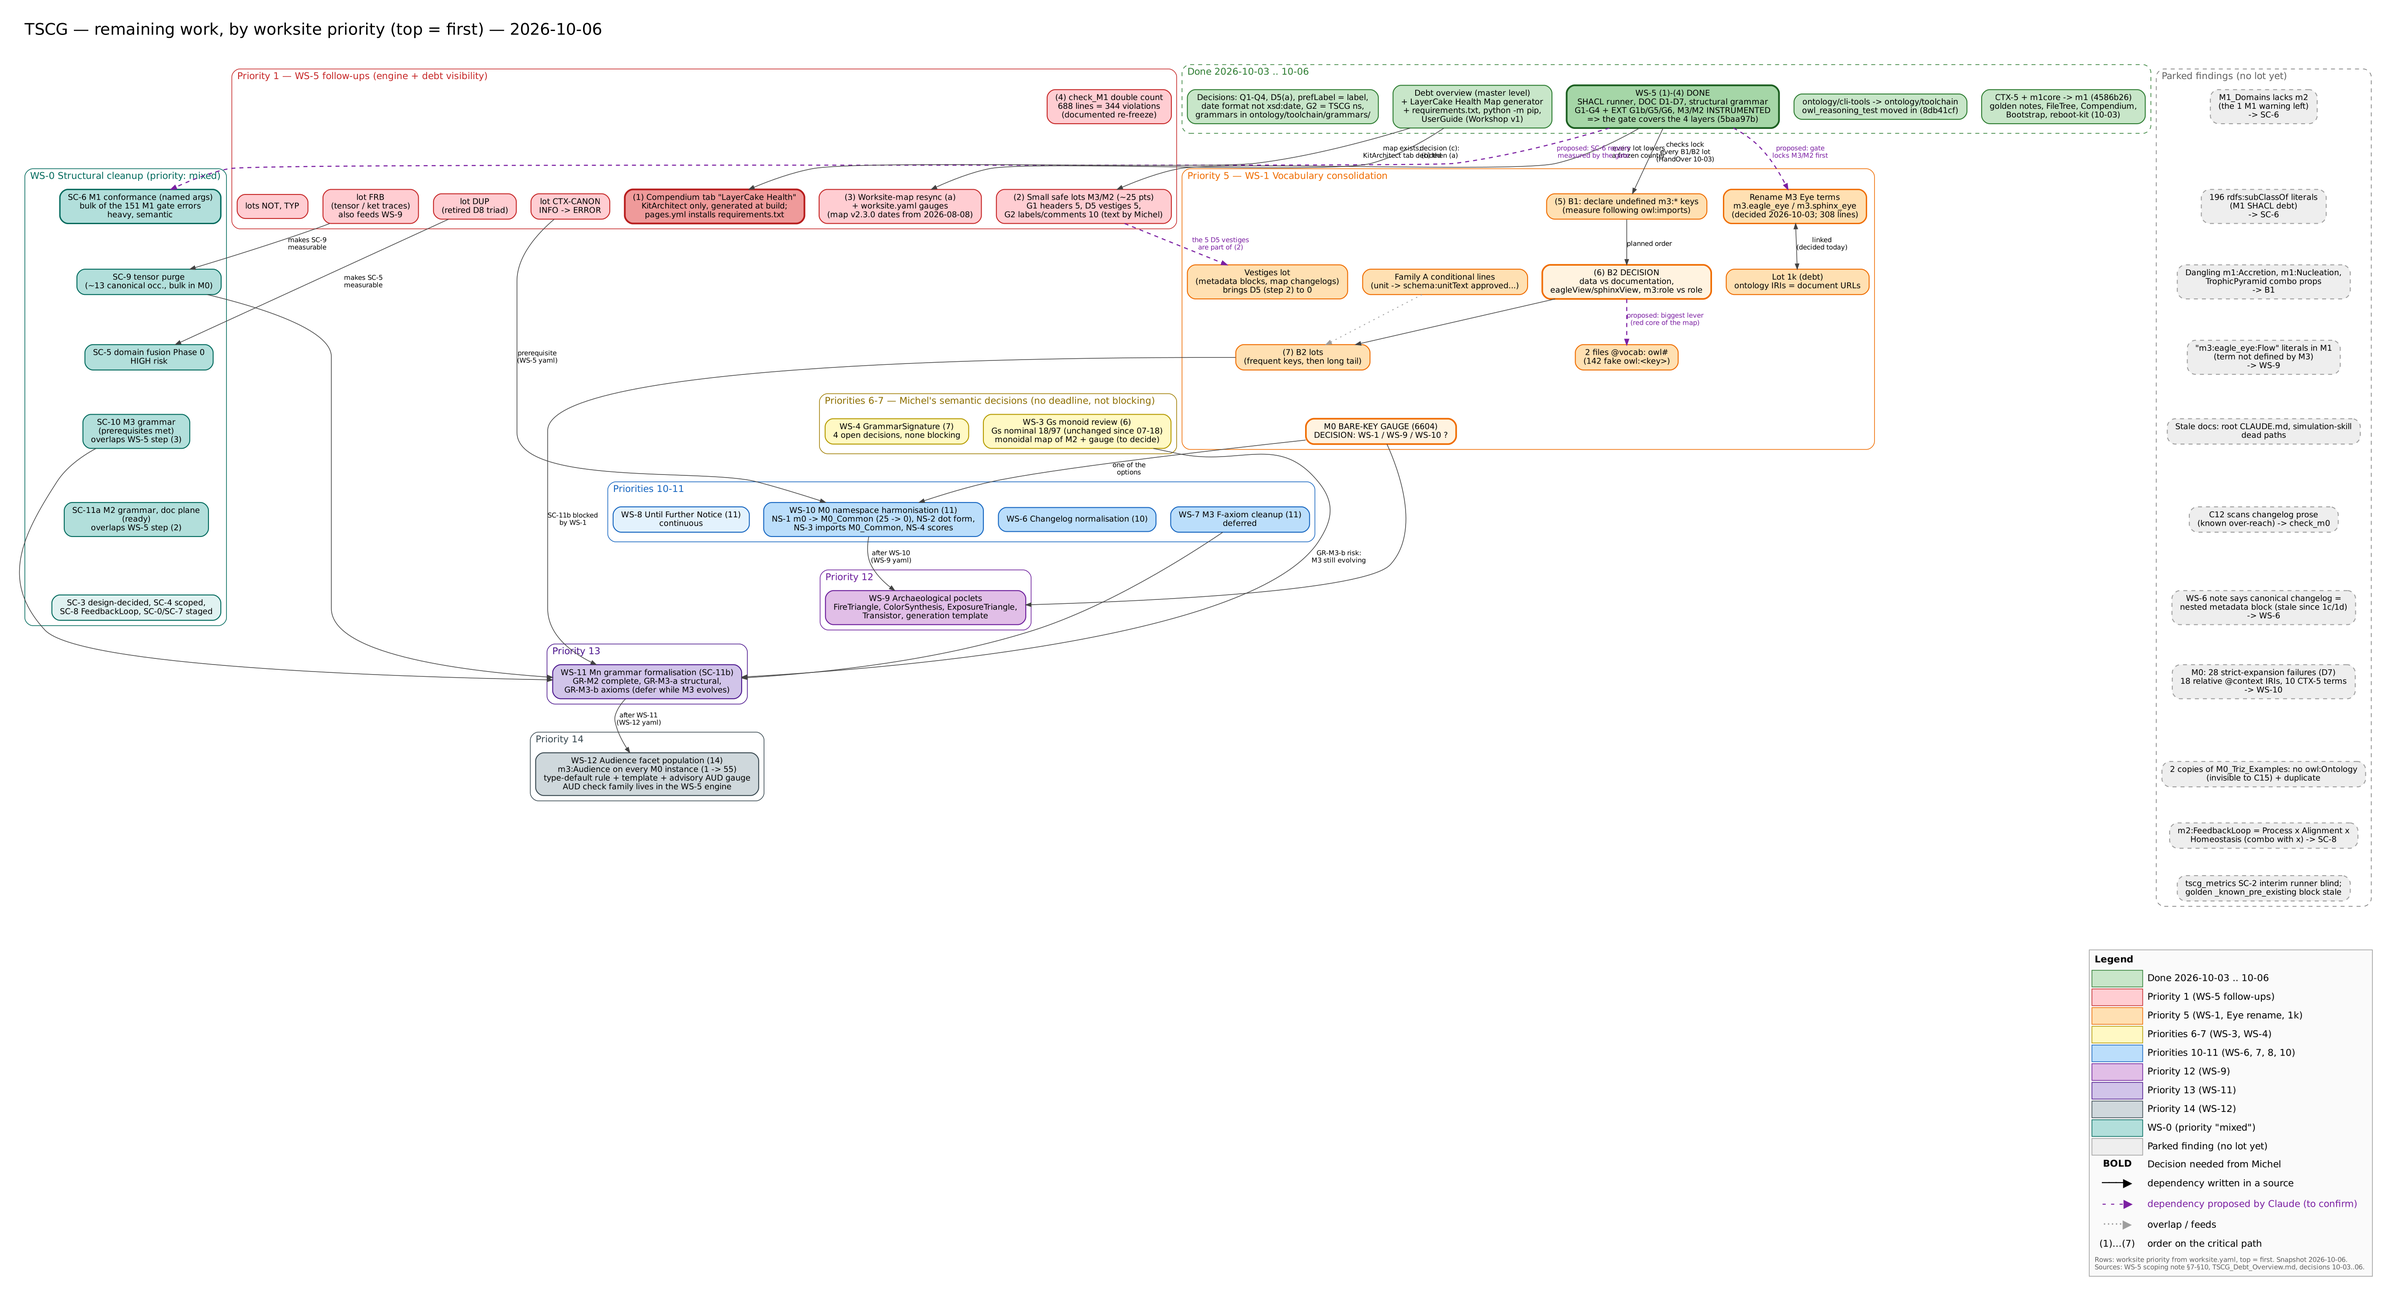
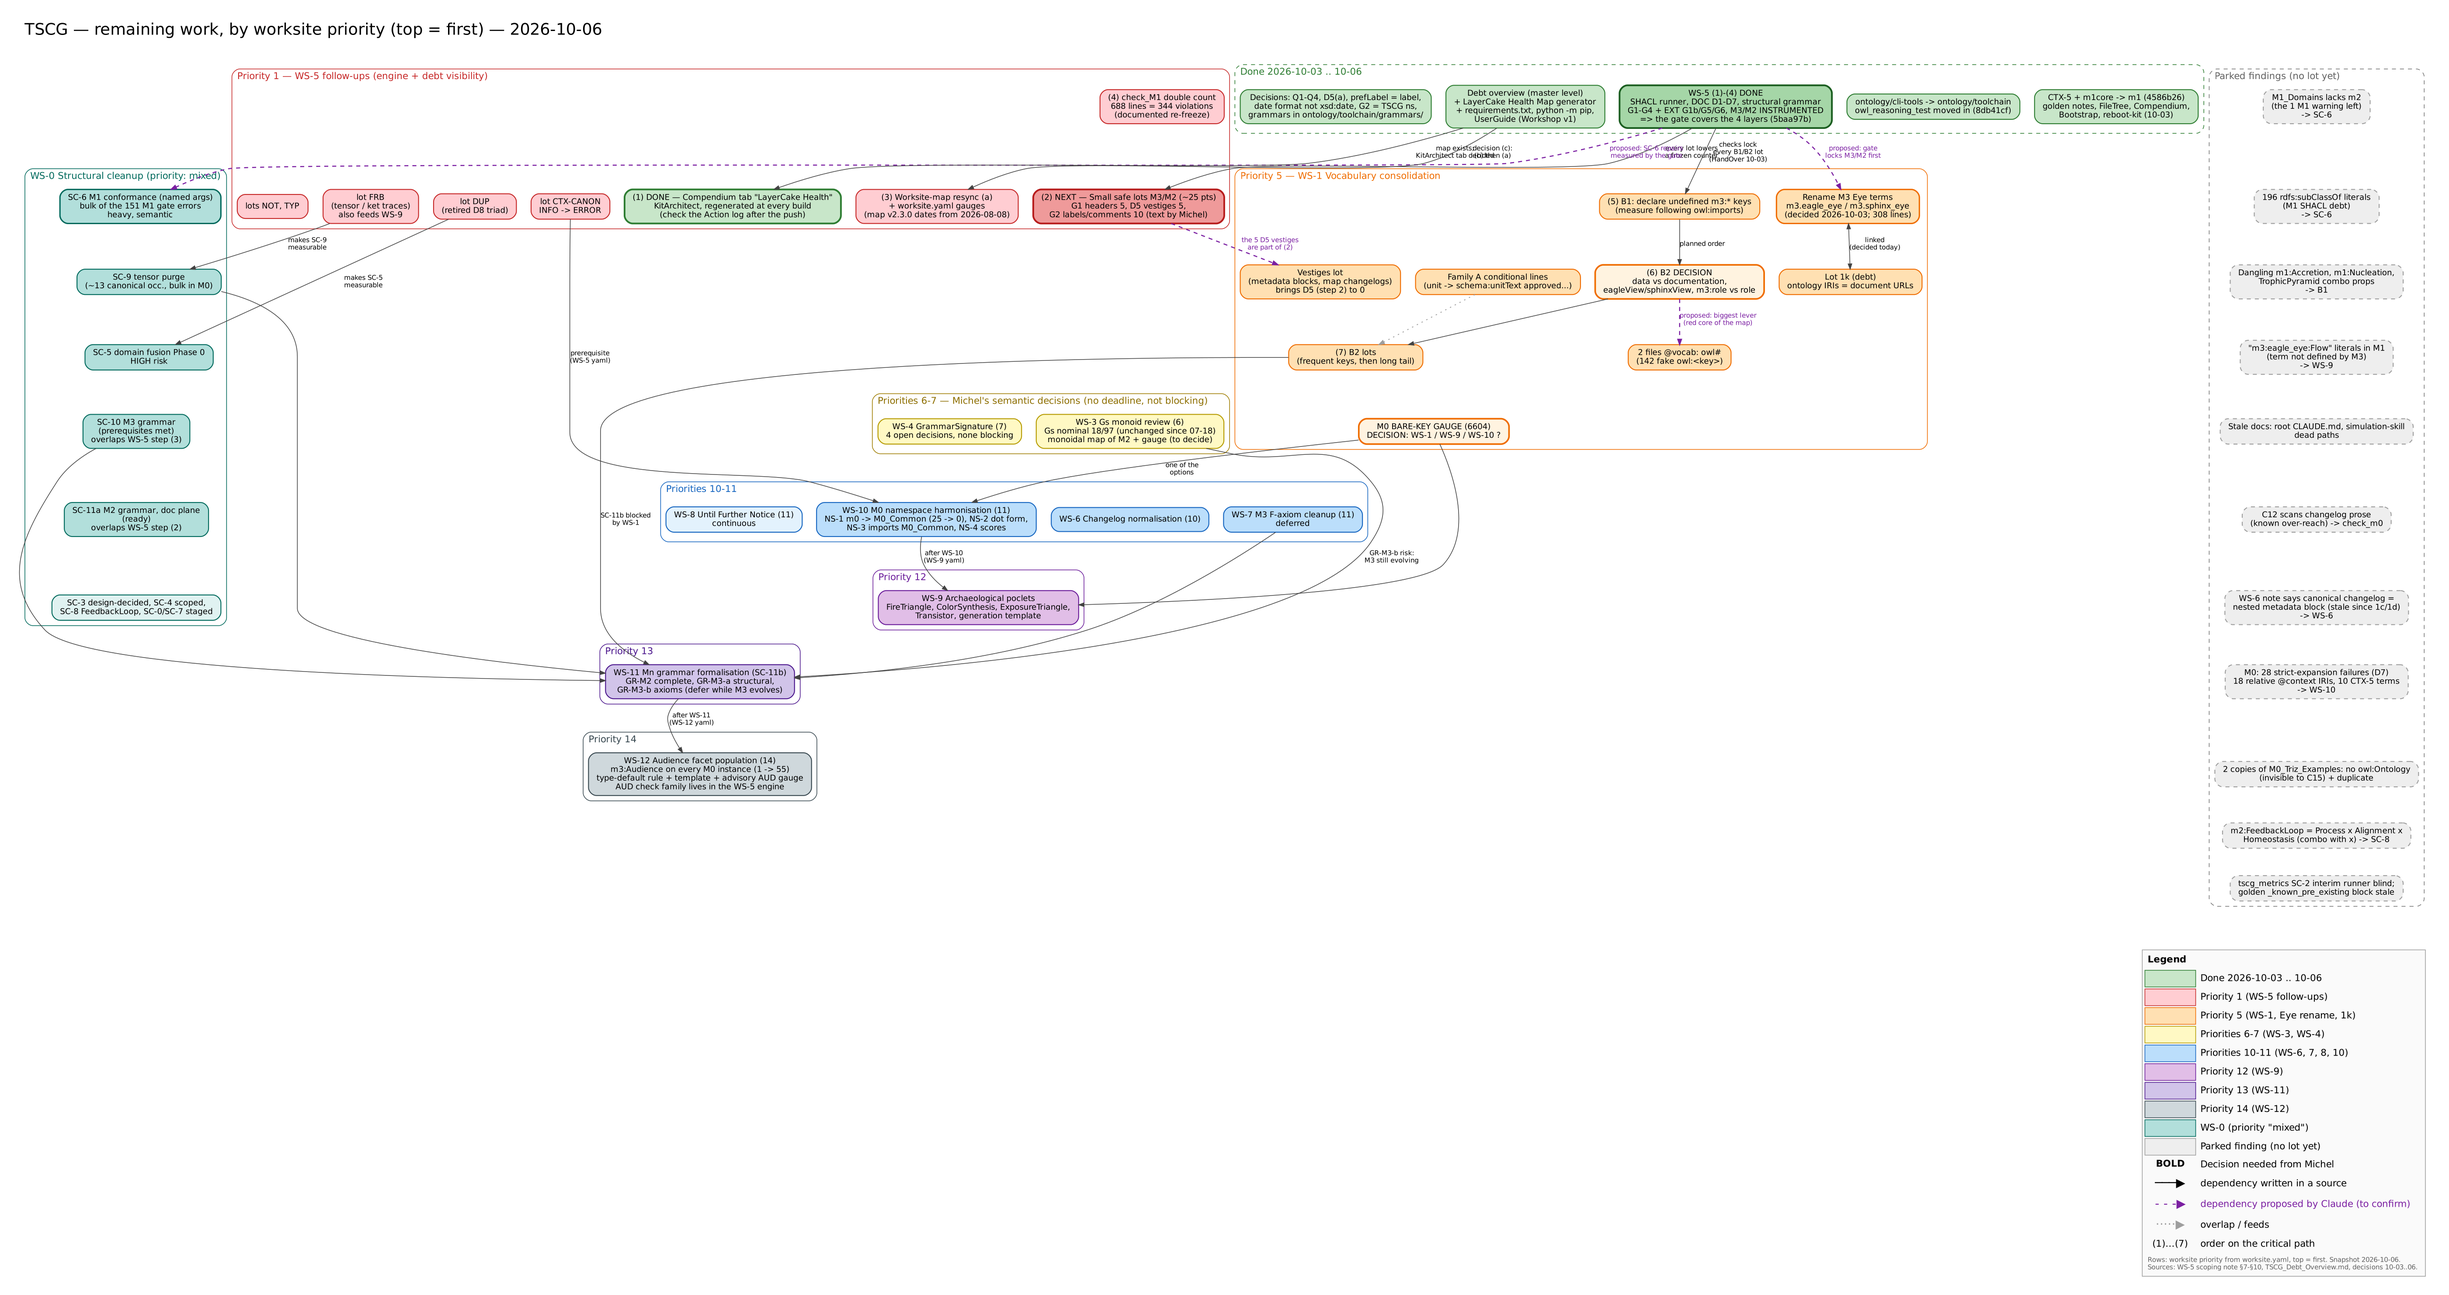
Compendium: tab "LayerCake Health" (KitArchitect), map regenerated at every build
Michel, 2026-10-06: "régénérer et afficher dans le Compendium".

- build_compendium.py: run_health_map() runs
  ontology/toolchain/tscg_layercake_health_map.py --no-png into a temp dir
  (never the source tree) and publishes dist/layercake_health_map.svg; the
  result goes into DATA.health. A failed generation does not break the
  build and is reported ("health map: unavailable (<reason>)").
- compendium_template.html: rubric "LayerCake Health", KitArchitect lens
  only; the SVG is embedded with <object> (hover tooltips work), with an
  intro, a colour legend and links to TSCG_Debt_Overview.md, the dated
  snapshots and the generator. Unavailable map -> the tab says so with the
  reason, never an empty tab.
- .github/workflows/pages.yml: installs ontology/toolchain/requirements.txt.
- Compendium_Generator_DesignNote.md section 8; HandOver 2026-10-06 and its
  graph: step (1) marked done, (2) small lots next.

Verified locally: build OK in ~25 s ("health map: ok"); KitUser and
KitCrafter do not see the tab, KitArchitect does; the embedded SVG exposes
its 729 tooltips; failure path tested (wrong script path -> tab shows the
reason, build succeeds).

Claude-Session: https://claude.ai/code/session_013nXWXhGAKUyEtFMJ3uvWhA

diff --git a/cli_tools/compendium/compendium_template.html b/cli_tools/compendium/compendium_template.html
@@ -97,6 +97,12 @@ h1{font-family:var(--disp);font-weight:700;font-size:clamp(30px,7vw,46px);letter
 .stub li{margin:4px 0}
 .switch{font:inherit;font-size:13px;font-weight:600;font-family:var(--disp);cursor:pointer;border:1px solid var(--accent);color:var(--accent);background:transparent;border-radius:8px;padding:7px 12px}
 .empty{color:var(--muted);padding:40px 0;text-align:center}
+.health-intro{color:var(--muted);font-size:14px;max-width:80ch;margin:0 0 14px}
+.health-frame{background:#fbfaf7;border:1px solid var(--line);border-radius:12px;padding:8px;overflow:hidden}
+.health-frame object{display:block;width:100%;height:auto}
+.health-legend{display:flex;flex-wrap:wrap;gap:14px;margin:12px 0 4px;font-size:13px;color:var(--muted)}
+.health-legend span::before{content:"";display:inline-block;width:11px;height:11px;margin-right:6px;vertical-align:-1px;clip-path:polygon(25% 0,75% 0,100% 50%,75% 100%,25% 100%,0 50%)}
+.hl-g::before{background:#3f9e5a}.hl-o::before{background:#ff8a00}.hl-m::before{background:#c4268f}.hl-r::before{background:#d8322a}.hl-x::before{background:#b9b9b9}
 footer{margin-top:40px;color:var(--muted);font-size:12.5px;border-top:1px solid var(--line);padding-top:16px}
 @media (max-width:560px){.lens-top{flex-direction:column;align-items:flex-start;gap:6px}.lens-count{text-align:left}.row{flex-direction:column;gap:6px}}
 @media (prefers-reduced-motion:reduce){*{transition:none!important}}
@@ -139,6 +145,7 @@ const TREE="https://github.com/Echopraxium/tscg/tree/main/";
 const UNDERSTAND="Understand the kit";
 const DOC_ORDER=["Epistemology","Guides & templates","Gate tools & tooling","The M3–M0 layers","Project management"];
 const EYE=["KitUser","KitCrafter","KitArchitect"];
+const HEALTH="LayerCake Health";   // KitArchitect only (Michel, 2026-10-06)
 let audience="KitUser", section=UNDERSTAND, query="";
 try{const s=localStorage.getItem("tscg-aud"); if(s&&EYE.includes(s)) audience=s;}catch(e){}
 try{const t=localStorage.getItem("tscg-theme"); if(t) document.documentElement.dataset.theme=t;}catch(e){}
@@ -158,10 +165,11 @@ function sectionsForAudience(){
   const out=[UNDERSTAND];
   if(DATA.subjects.some(inAud)) out.push("Instances & simulations");
   DOC_ORDER.forEach(s=>{ if(DATA.docs.some(d=>inAud(d)&&d.section===s)) out.push(s); });
+  if(audience==="KitArchitect") out.push(HEALTH);
   return out;
 }
 function sectionCount(s){
-  if(s===UNDERSTAND) return "";
+  if(s===UNDERSTAND||s===HEALTH) return "";
   if(s==="Instances & simulations") return DATA.subjects.filter(inAud).length;
   return DATA.docs.filter(d=>inAud(d)&&d.section===s).length;
 }
@@ -271,6 +279,29 @@ function renderProject(){
   return html||`<p class="empty">Nothing here at this level.</p>`;
 }
 
+function renderHealth(){
+  const H=DATA.health||{status:"unavailable",reason:"no health data in this build"};
+  const doc=BLOB+"ontology/docs/_01_Worksite/TSCG_Debt_Overview.md";
+  const snaps=TREE+"ontology/docs/_01_Worksite/LayerCakeHealthMap";
+  const gen=BLOB+"ontology/toolchain/tscg_layercake_health_map.py";
+  if(H.status!=="ok"){
+    return `<div class="intro"><p><b>LayerCake Health Map unavailable in this build.</b></p>
+      <p class="health-intro">${esc(H.reason||"unknown reason")}</p>
+      <p class="health-intro">An absent map is not a healthy one. Dated snapshots: <a href="${snaps}">LayerCakeHealthMap/</a>.</p></div>`;
+  }
+  return `<section class="group"><h2><span>LayerCake Health Map</span><span>regenerated at this build</span></h2>
+    <p class="health-intro">The Layer Cake seen from above: M3 at the centre (abstract), M0 on the periphery (concrete).
+    One hexagon per node, one meta-hexagon per cluster of nodes. Links only where the data carries a relation.
+    <b>Hover a cell or a link</b> for its findings. Measured by the acceptance gate's own instruments — no number is typed by hand.</p>
+    <div class="health-legend"><span class="hl-g">no finding</span><span class="hl-o">bare keys only (WS-1 vocabulary)</span>
+      <span class="hl-m">other technical debt (measured, frozen)</span><span class="hl-r">invisible / misread by the tools</span><span class="hl-x">not measured</span></div>
+    <div class="health-frame"><object type="image/svg+xml" data="${esc(H.svg)}" style="aspect-ratio:${H.width}/${H.height}"
+      aria-label="LayerCake Health Map">LayerCake Health Map (SVG)</object></div>
+    <p class="health-intro">How to read it, debt by owner and the reduction path: <a href="${doc}">TSCG_Debt_Overview.md</a> ·
+      dated snapshots (progress record): <a href="${snaps}">LayerCakeHealthMap/</a> · generator: <a href="${gen}">tscg_layercake_health_map.py</a> ·
+      open the map alone: <a href="${esc(H.svg)}" target="_blank" rel="noopener">${esc(H.svg)}</a></p></section>`;
+}
+
 function render(){
   const c=counts();
   document.getElementById("nvis").textContent=c.total;
@@ -280,6 +311,7 @@ function render(){
   if(section===UNDERSTAND) v.innerHTML=renderUnderstand();
   else if(section==="Instances & simulations") v.innerHTML=renderInstances();
   else if(section==="Project management") v.innerHTML=renderProject();
+  else if(section===HEALTH) v.innerHTML=renderHealth();
   else v.innerHTML=renderDocs(section);
   v.querySelectorAll(".switch[data-aud]").forEach(b=>b.onclick=()=>setAudience(b.dataset.aud));
   v.querySelectorAll(".switch[data-sec]").forEach(b=>b.onclick=()=>{section=b.dataset.sec;render();});

diff --git a/cli_tools/compendium/build_compendium.py b/cli_tools/compendium/build_compendium.py
@@ -163,6 +163,40 @@ def run_gallery(root, outdir, script, site_url):
     except Exception as e:
         print(f"  [gallery] failed: {e}")
 
+HEALTH_SCRIPT = "ontology/toolchain/tscg_layercake_health_map.py"
+HEALTH_FILE = "layercake_health_map.svg"
+
+def run_health_map(root, outdir):
+    """LayerCake Health Map (added 2026-10-06), regenerated at EVERY build from the
+    checked-out HEAD and published as dist/layercake_health_map.svg — the Compendium
+    stores no fact of its own. Written to a temp dir, never into the source tree.
+    A failure never breaks the site and never yields an empty tab: the tab shows
+    'map unavailable' with the reason (same rule as the gate: what did not run is
+    never shown as fine)."""
+    import subprocess, sys, tempfile
+    script = os.path.abspath(os.path.join(root, HEALTH_SCRIPT))
+    if not os.path.exists(script):
+        return {"status": "unavailable", "reason": f"generator not found: {HEALTH_SCRIPT}"}
+    with tempfile.TemporaryDirectory() as tmp:
+        try:
+            proc = subprocess.run([sys.executable, script, "--out", tmp, "--no-png"],
+                                  cwd=os.path.dirname(script), capture_output=True,
+                                  text=True, encoding="utf-8", errors="replace", timeout=900)
+        except Exception as e:
+            return {"status": "unavailable", "reason": f"generator did not run: {e}"}
+        svgs = sorted(glob.glob(os.path.join(tmp, "*.svg")))
+        if proc.returncode != 0 or not svgs:
+            tail = (proc.stdout + proc.stderr).strip().splitlines()[-6:]
+            return {"status": "unavailable",
+                    "reason": f"generator exit {proc.returncode}: " + " | ".join(tail)}
+        svg = svgs[-1]
+        head = read(svg)[:400]
+        m = re.search(r'width="(\d+)" height="(\d+)"', head)
+        shutil.copyfile(svg, os.path.join(outdir, HEALTH_FILE))
+        print(f"  health map: {os.path.join(outdir, HEALTH_FILE)}")
+        return {"status": "ok", "svg": HEALTH_FILE, "snapshot": os.path.basename(svg),
+                "width": int(m.group(1)) if m else 1600, "height": int(m.group(2)) if m else 1700}
+
 def build_stamp(root):
     """Commit + UTC date of this build, shown in the footer so a stale page is visible
     at a glance (added 2026-10-03). CI: GITHUB_SHA; local: git rev-parse HEAD."""
@@ -185,7 +219,8 @@ def main():
     os.makedirs(a.out,exist_ok=True)
     subjects=build_subjects(a.root,a.out)
     docs=build_docs(a.root,a.out)
-    data=json.dumps({"subjects":subjects,"docs":docs,"build":build_stamp(a.root)},ensure_ascii=False)
+    health=run_health_map(a.root,a.out)
+    data=json.dumps({"subjects":subjects,"docs":docs,"build":build_stamp(a.root),"health":health},ensure_ascii=False)
     html=read(a.template)
     if '"@@DATA@@"' not in html:
         raise SystemExit("template missing the \"@@DATA@@\" placeholder")
@@ -197,5 +232,6 @@ def main():
     print(f"built {a.out}/index.html")
     print(f"  subjects: {len(subjects)}  (playable copied & linked: {played})")
     print(f"  docs: {len(docs)}")
+    print(f"  health map: {health.get('status')}" + (f" ({health.get('reason')})" if health.get("reason") else ""))
 
 if __name__=="__main__": main()

diff --git a/ontology/docs/_01_Worksite/WS-5/Next_Conversation_2026-10-06/TSCG_HandOver_WS-5_2026-10-06.md b/ontology/docs/_01_Worksite/WS-5/Next_Conversation_2026-10-06/TSCG_HandOver_WS-5_2026-10-06.md
@@ -1,10 +1,11 @@
-# TSCG HandOver — WS-5 critical path done (gate covers M3→M0); next: LayerCake Health tab
+# TSCG HandOver — WS-5 critical path done (gate covers M3→M0); LayerCake Health in the Compendium; next: small debt lots
 
 **Author**: Echopraxium with the collaboration of Claude AI
 **Date**: 2026-10-06
 **Purpose**: resume cold in a fresh conversation. The WS-5 critical path is closed: the
-gate measures the four layers. Next: the Compendium tab "LayerCake Health", then the
-small debt-reduction lots.
+gate measures the four layers, and the LayerCake Health Map is regenerated at every
+Compendium build (tab "LayerCake Health", KitArchitect). Next: the small
+debt-reduction lots.
 **Companion files (same folder)**: `TSCG_RemainingWork.png` (dependency graph, legend
 bottom-right), its Graphviz sources `TSCG_RemainingWork.dot` and `legend.dot`, and
 `render_graph.py` (Graphviz + Pillow). Edit the `.dot` files, then `python render_graph.py`.
@@ -70,7 +71,7 @@ bottom-right), its Graphviz sources `TSCG_RemainingWork.dot` and `legend.dot`, a
 | `7470326` | `requirements.txt`, gate start-up package check (1.4.1), UserGuide setup step + dead `validate_m0_instance.py` path fixed |
 | `a2a6ea8` | `python -m pip` everywhere; gate prints its interpreter (1.4.2) |
 | `ffa6206` | UserGuide: Claude project is **"TSCG Workshop v1"** (was "TSCG Cyclop v0") |
-| *(this lot)* | map renamed **LayerCake Health Map** (`tscg_layercake_health_map.py` 0.4.0, `_01_Worksite/LayerCakeHealthMap/`); snapshot regenerated on `ffa6206`; this HandOver |
+| *(this series)* | map renamed **LayerCake Health Map** (`tscg_layercake_health_map.py` 0.4.0, `_01_Worksite/LayerCakeHealthMap/`), snapshot regenerated on `ffa6206`; this HandOver; **Compendium tab "LayerCake Health"** (map regenerated at every build, `pages.yml` installs `requirements.txt`) |
 
 ### Decisions taken (Michel, 2026-10-03 → 10-06)
 
@@ -93,8 +94,9 @@ bottom-right), its Graphviz sources `TSCG_RemainingWork.dot` and `legend.dot`, a
   keys · **magenta** other technical debt · **red** invisible/misread · grey not
   measured. Generated, never hand-drawn; snapshots dated and named after a HEAD
   commit that is on `main`.
-- **Compendium tab "LayerCake Health"**, generated at build time. Visibility
-  proposed **KitArchitect only** — not explicitly confirmed (§3).
+- **Compendium tab "LayerCake Health"**, regenerated at every build (Michel:
+  "régénérer et afficher dans le Compendium"). Built **KitArchitect only** — the
+  visibility itself is not explicitly confirmed (§3).
 - Claude project name: **TSCG Workshop v1**.
 
 ### Working method that worked (reuse it)
@@ -114,11 +116,12 @@ bottom-right), its Graphviz sources `TSCG_RemainingWork.dot` and `legend.dot`, a
 
 The critical path is red in the graph:
 
-1. **(1) Compendium tab "LayerCake Health"** (KitArchitect only):
-   `build_compendium.py` calls `tscg_layercake_health_map.py --no-png` into `dist/`,
-   the template gets a rubric showing the SVG **inline** (tooltips work); if the
-   generation fails in CI, the tab says "map unavailable: <reason>" — never an empty
-   tab. `pages.yml` installs `requirements.txt` (no Playwright). One patch.
+1. **(1) DONE in this series — Compendium tab "LayerCake Health"**: `build_compendium.py`
+   runs `tscg_layercake_health_map.py --no-png` into a temp dir and publishes
+   `dist/layercake_health_map.svg`; the tab embeds it with an `<object>` (tooltips
+   work); a failed generation shows "map unavailable: <reason>", never an empty tab.
+   **Verify after the push**: the GitHub Action log ("health map: ok") and the tab on
+   https://echopraxium.github.io/tscg with the KitArchitect lens.
 2. **(2) Small safe lots on M3/M2** (~25 points): 5 headers (G1), 5 changelog vestiges
    (D5), 10 labels/comments (G2 — **text by Michel**). Each lowers a frozen counter,
    re-frozen with `--update-golden` and the reason in the commit.

diff --git a/cli_tools/compendium/Compendium_Generator_DesignNote.md b/cli_tools/compendium/Compendium_Generator_DesignNote.md
@@ -88,3 +88,16 @@ it is browsable today.
 2. Default audience on first load — KitUser (most inviting) confirmed?
 3. Do KitArchitect-only entries stay hidden from lower levels, or shown greyed
    ("exists, not for you yet")?
+
+## 8. LayerCake Health tab (added 2026-10-06)
+
+A rubric **"LayerCake Health"**, visible to **KitArchitect** only, shows the LayerCake
+Health Map (`ontology/toolchain/tscg_layercake_health_map.py`). Same rule as the rest
+of the Compendium: nothing is stored, the map is **regenerated at every build** from
+the checked-out HEAD (`run_health_map()` → `dist/layercake_health_map.svg`, written via
+a temp dir, never into the source tree) and embedded with an `<object>` so its hover
+tooltips work. If the generation fails, the build still succeeds and the tab says
+**"map unavailable: <reason>"** — an absent map is never presented as a healthy one.
+`pages.yml` installs `ontology/toolchain/requirements.txt` for it (no Playwright: SVG
+only). Dated snapshots stay committed in `ontology/docs/_01_Worksite/LayerCakeHealthMap/`
+as the progress record.
